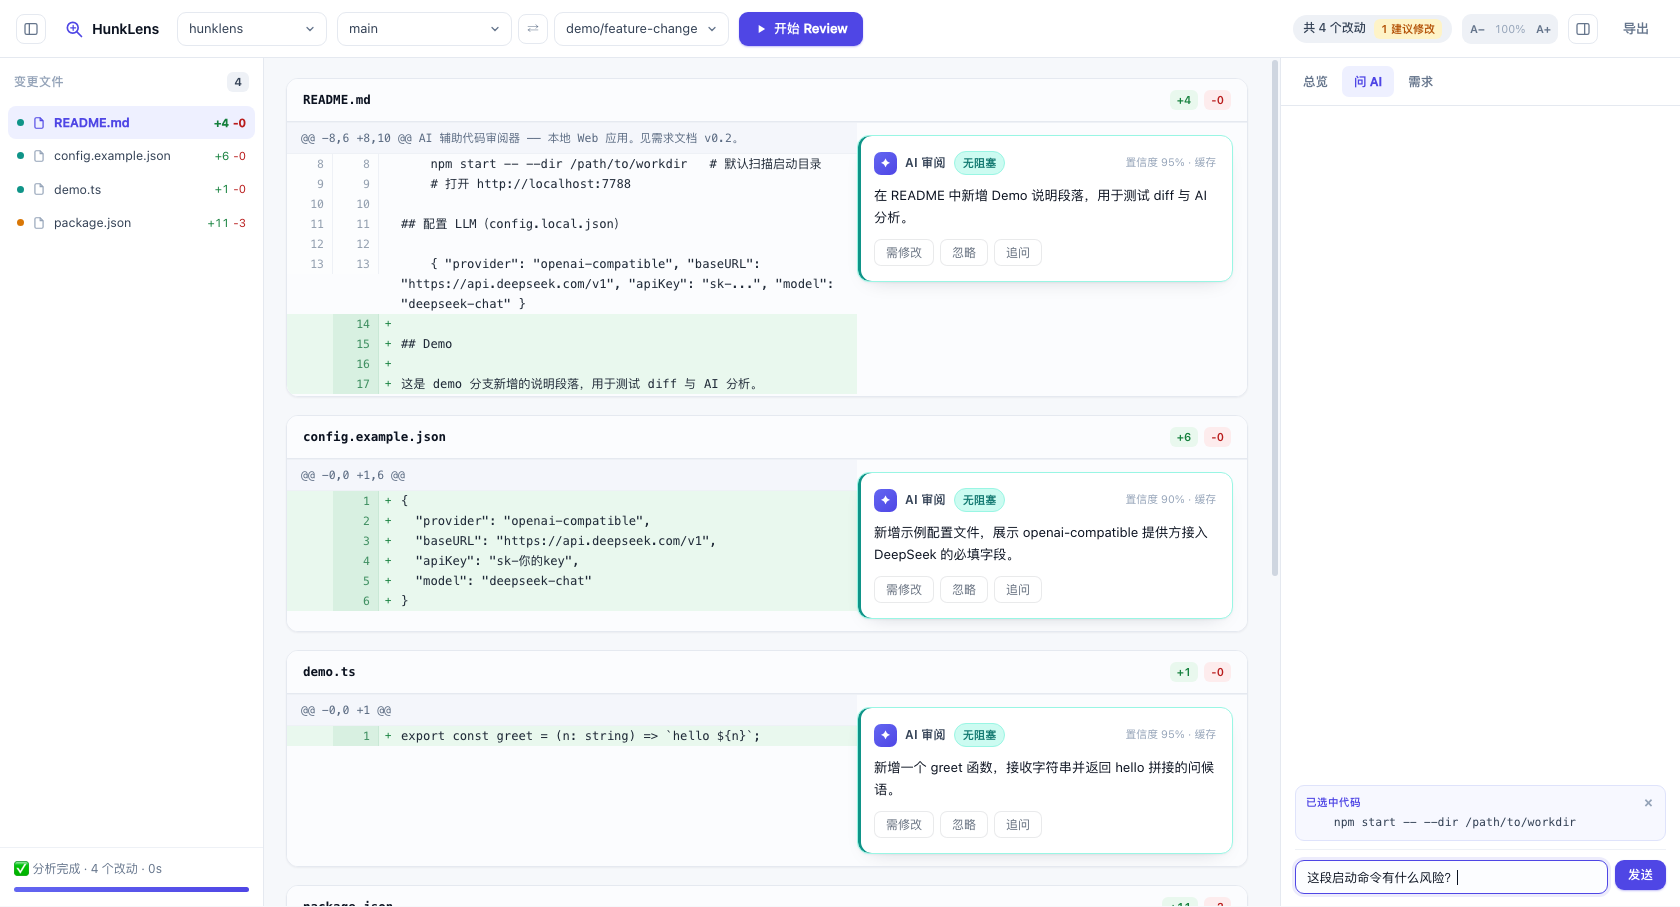
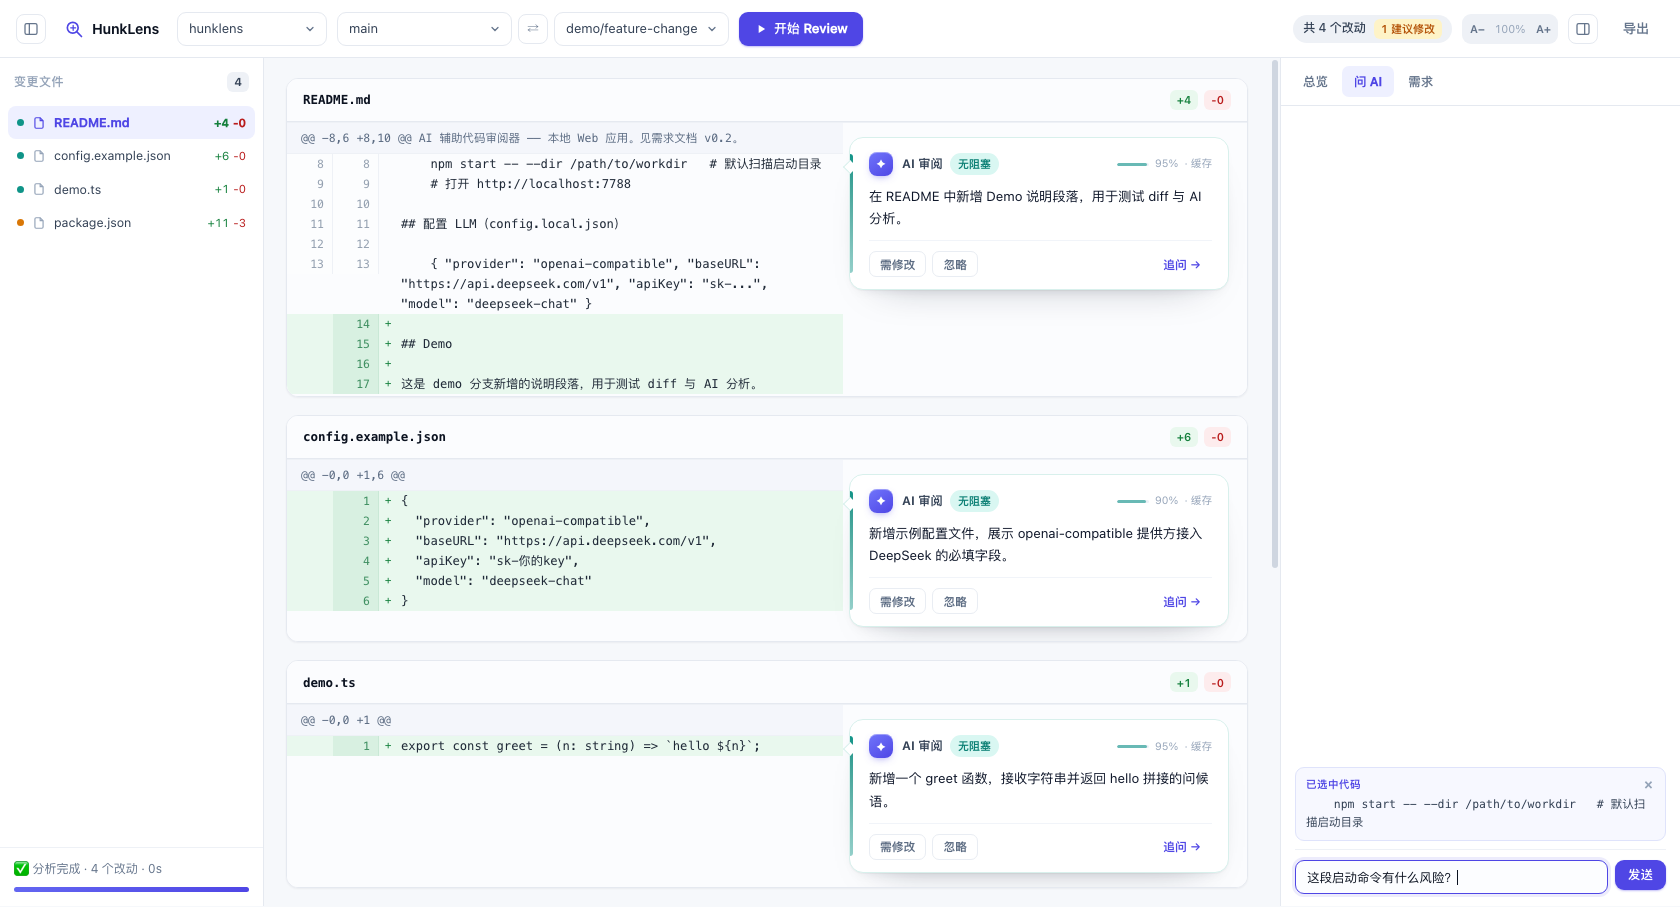
style: 重做 AI 分析卡片视觉（左侧色条 + 指向箭头 + 置信度条 + 骨架屏）

diff --git a/public/style.css b/public/style.css
@@ -158,41 +158,71 @@ body.hide-insp .diff-area{padding-right:26px}
 
 /* ---------- AI card ---------- */
 .hunk{background:#fbfcfe}
-.ai-card{width:calc(376px + (var(--fs) - 1) * 120px);flex:none;margin:12px 14px 12px 0;padding:15px 16px;
-  font-size:calc(13.2px * var(--fs));line-height:1.62;align-self:flex-start;
-  border-radius:12px;background:#fff;border:1px solid var(--line);box-shadow:0 1px 2px rgba(15,23,42,.04),0 10px 24px -16px rgba(15,23,42,.3)}
-.ai-card.sev-blocker{background:#fff;border-color:#fecaca;box-shadow:inset 3px 0 0 var(--blocker),0 1px 2px rgba(15,23,42,.04),0 8px 20px -14px rgba(15,23,42,.28)}
-.ai-card.sev-warning{background:#fff;border-color:#fde68a;box-shadow:inset 3px 0 0 var(--warn),0 1px 2px rgba(15,23,42,.04),0 8px 20px -14px rgba(15,23,42,.28)}
-.ai-card.sev-info{background:#fff;border-color:#99f6e4;box-shadow:inset 3px 0 0 var(--info),0 1px 2px rgba(15,23,42,.04),0 8px 20px -14px rgba(15,23,42,.28)}
-.ai-card.is-pending{background:#fff;border-color:var(--line);box-shadow:inset 3px 0 0 #dbe1ea;color:var(--muted)}
-.ai-head{display:flex;align-items:center;gap:8px;margin-bottom:10px}
-.ai-avatar{width:23px;height:23px;border-radius:7px;display:grid;place-items:center;flex:none;
-  background:linear-gradient(140deg,#6366f1,#4f46e5);color:#fff;font-size:12px}
-.ai-name{font-size:calc(12px * var(--fs));font-weight:650;letter-spacing:.02em;color:var(--ink-2)}
-.pill{font-size:calc(11.2px * var(--fs));font-weight:650;padding:2px 8px;border-radius:999px;border:1px solid transparent}
-.pill.blocker{background:#fee2e2;color:var(--blocker);border-color:#fecaca}
-.pill.warning{background:#fef3c7;color:#b45309;border-color:#fde68a}
-.pill.info{background:#ccfbf1;color:#0f766e;border-color:#99f6e4}
-.ai-meta{margin-left:auto;font-size:calc(10.8px * var(--fs));color:var(--faint);font-variant-numeric:tabular-nums}
-.ai-intent{margin:0 0 10px;color:var(--ink);line-height:1.66}
-.ai-issues{list-style:none;margin:0 0 10px;padding:0;display:flex;flex-direction:column;gap:6px}
-.ai-issues li{position:relative;padding-left:17px;color:#7f1d1d;line-height:1.62}
-.ai-issues li::before{content:"";position:absolute;left:5px;top:9px;width:5px;height:5px;border-radius:50%;background:currentColor;opacity:.55}
-.ai-card.sev-warning .ai-issues li{color:#78350f}
-.ai-card.sev-info .ai-issues li{color:#115e59}
-.ai-suggest{border-radius:9px;padding:10px 12px;background:rgba(255,255,255,.75);border:1px solid rgba(15,23,42,.06);
-  color:var(--ink-2);line-height:1.64;margin-bottom:10px}
-.ai-suggest::before{content:"建议";display:block;font-size:10.5px;font-weight:700;letter-spacing:.08em;color:var(--muted);margin-bottom:4px}
-.ai-actions{display:flex;gap:6px;opacity:.75;transition:opacity .15s}
-.ai-card:hover .ai-actions{opacity:1}
-.mini-btn{height:27px;padding:0 11px;border-radius:7px;border:1px solid rgba(15,23,42,.12);background:rgba(255,255,255,.8);
-  font-size:calc(12px * var(--fs));cursor:pointer;color:var(--ink-2)}
-.mini-btn:hover{border-color:var(--accent);color:var(--accent);background:#fff}
-.mini-btn.is-on{background:var(--accent);border-color:var(--accent);color:#fff}
-.skel{height:62px;border-radius:8px;background:linear-gradient(90deg,#eef2f7 25%,#f7f9fc 37%,#eef2f7 63%);
-  background-size:400% 100%;animation:shimmer 1.3s ease infinite;margin-bottom:8px}
+.ai-card{--sev:var(--info);--sev-soft:rgba(15,148,136,.07);--sev-line:#eef1f6;
+  position:relative;flex:none;align-self:flex-start;width:calc(380px + (var(--fs) - 1) * 120px);
+  margin:14px 18px 14px 6px;padding:14px 16px 12px 19px;
+  border-radius:14px;background:#fff;border:1px solid var(--sev-line);
+  box-shadow:0 1px 1px rgba(15,23,42,.03),0 6px 16px -12px rgba(15,23,42,.22),0 20px 44px -32px rgba(15,23,42,.4);
+  font-size:calc(13.2px * var(--fs));line-height:1.62;
+  transition:transform .16s ease,box-shadow .16s ease,border-color .16s ease}
+/* 左侧色条：只染一半高度，克制且有引导感 */
+.ai-card::before{content:"";position:absolute;left:0;top:16px;bottom:16px;width:3px;border-radius:0 3px 3px 0;
+  background:linear-gradient(180deg,var(--sev),color-mix(in srgb,var(--sev) 45%,#fff))}
+/* 指向代码的小箭头 */
+.ai-card::after{content:"";position:absolute;left:-5.5px;top:24px;width:9px;height:9px;background:#fff;
+  transform:rotate(45deg);border-left:1px solid var(--sev-line);border-bottom:1px solid var(--sev-line)}
+.ai-card:hover{transform:translateY(-1px);border-color:var(--sev);
+  box-shadow:0 2px 3px rgba(15,23,42,.04),0 10px 22px -14px rgba(15,23,42,.26),0 26px 50px -34px rgba(15,23,42,.42)}
+.ai-card.sev-blocker{--sev:var(--blocker);--sev-soft:rgba(220,38,38,.06);--sev-line:#f8dcdc}
+.ai-card.sev-warning{--sev:var(--warn);--sev-soft:rgba(217,119,6,.075);--sev-line:#f6e7c8}
+.ai-card.sev-info{--sev:var(--info);--sev-soft:rgba(15,148,136,.06);--sev-line:#d8f0ec}
+.ai-card.is-pending{--sev:#cbd5e1;--sev-soft:#f8fafc;--sev-line:#eef1f6;color:var(--muted)}
+.ai-card.is-pending::before{background:linear-gradient(180deg,#dbe3ee,#f1f5f9)}
+.ai-card.is-pending::after{display:none}
+
+.ai-head{display:flex;align-items:center;gap:9px;margin-bottom:9px}
+.ai-avatar{width:24px;height:24px;border-radius:8px;display:grid;place-items:center;flex:none;
+  background:linear-gradient(145deg,#7075fb,#4f46e5);color:#fff;font-size:12px;
+  box-shadow:0 3px 8px -4px rgba(79,70,229,.7),inset 0 1px 0 rgba(255,255,255,.35)}
+.ai-card.is-pending .ai-avatar{background:linear-gradient(145deg,#dbe3ee,#a8b4c5);box-shadow:none}
+.ai-title{display:flex;align-items:center;gap:7px;min-width:0}
+.ai-name{font-size:calc(12.2px * var(--fs));font-weight:680;letter-spacing:.01em;color:#334155}
+.pill{font-size:calc(11px * var(--fs));font-weight:650;padding:2px 8px;border-radius:999px;border:none;letter-spacing:.01em}
+.pill.blocker{background:#fee2e2;color:#b91c1c}
+.pill.warning{background:#fef0cf;color:#a45b0a}
+.pill.info{background:#d9f7f2;color:#0b7f74}
+.pill.pending{background:#f1f5f9;color:#7c8ba0}
+.ai-meta{margin-left:auto;display:flex;align-items:center;gap:6px;flex:none;
+  font-size:calc(10.6px * var(--fs));color:#94a3b8;font-variant-numeric:tabular-nums}
+.conf-bar{width:32px;height:3px;border-radius:99px;background:#edf1f7;overflow:hidden}
+.conf-bar i{display:block;height:100%;border-radius:99px;background:var(--sev);opacity:.6}
+
+.ai-intent{margin:0 0 11px;color:#0f172a;line-height:1.68;letter-spacing:-.001em}
+.ai-issues{list-style:none;margin:0 0 11px;padding:0;display:flex;flex-direction:column;gap:7px}
+.ai-issues li{position:relative;padding-left:18px;color:#3f4a5a;line-height:1.62}
+.ai-issues li::before{content:"";position:absolute;left:3px;top:.6em;width:6px;height:6px;border-radius:1.5px;
+  background:var(--sev);opacity:.5;transform:rotate(45deg)}
+
+.ai-suggest{position:relative;margin:0 0 11px;padding:9px 11px;border-radius:10px;
+  background:var(--sev-soft);border:1px solid rgba(15,23,42,.045);color:#334155;line-height:1.64}
+.sug-label{display:inline-flex;align-items:center;height:17px;padding:0 6px;margin-right:6px;border-radius:5px;
+  background:#fff;color:var(--sev);font-size:10px;font-weight:750;letter-spacing:.05em;vertical-align:1.5px;
+  box-shadow:0 1px 2px rgba(15,23,42,.08)}
+
+.ai-actions{display:flex;align-items:center;gap:6px;padding-top:10px;border-top:1px solid #f1f4f9}
+.mini-btn{height:26px;padding:0 10px;border-radius:7px;border:1px solid #e9edf3;background:#fff;
+  font-size:calc(11.8px * var(--fs));font-weight:550;cursor:pointer;color:#5b6b82;
+  transition:border-color .14s ease,color .14s ease,background .14s ease,box-shadow .14s ease}
+.mini-btn:hover{border-color:#c7cbf5;color:var(--accent);background:#f8f9ff}
+.mini-btn.is-on{background:var(--accent-soft);border-color:#c7cbf5;color:#4338ca;box-shadow:inset 0 0 0 1px rgba(79,70,229,.18)}
+.ai-card.sev-blocker .mini-btn[data-act="fix"].is-on{background:#fee2e2;border-color:#fecaca;color:#b91c1c;box-shadow:none}
+.mini-btn.ask{margin-left:auto;border-color:transparent;background:transparent;color:var(--accent);font-weight:600}
+.mini-btn.ask:hover{background:var(--accent-soft);border-color:transparent}
+
+.skel{height:9px;border-radius:6px;background:linear-gradient(90deg,#eef2f7 25%,#f8fafc 37%,#eef2f7 63%);
+  background-size:400% 100%;animation:shimmer 1.4s ease infinite;margin-top:7px}
 @keyframes shimmer{0%{background-position:100% 0}100%{background-position:0 0}}
-.pending-note{display:flex;align-items:center;gap:6px;font-size:11.5px;color:var(--muted)}
+.pending-note{display:flex;align-items:center;gap:7px;font-size:calc(11.8px * var(--fs));color:#7f8da3}
 .pulse{width:6px;height:6px;border-radius:50%;background:var(--accent);animation:pulse 1.1s ease-in-out infinite}
 @keyframes pulse{0%,100%{opacity:.25;transform:scale(.85)}50%{opacity:1;transform:scale(1.1)}}
 
@@ -232,7 +262,7 @@ body.hide-insp .diff-area{padding-right:26px}
 .chat-input input:focus{outline:none;border-color:var(--accent);box-shadow:0 0 0 3px rgba(79,70,229,.1)}
 
 @media (max-width:1500px){:root{--rail-w:236px;--insp-w:356px}
-  .ai-card{width:auto;min-width:300px}}
+  .ai-card{width:calc(340px + (var(--fs) - 1) * 100px)}}
 @media (max-width:1180px){
   .shell{grid-template-columns:minmax(0,1fr)}
   .rail,.inspector{display:none}

diff --git a/public/app.js b/public/app.js
@@ -411,8 +411,12 @@ function renderFile(f, parsed) {
       html += "<div class=\"hunk\"><div class=\"code\">"
         + "<div class=\"hunk-head\"><span>" + esc(h.header) + "</span></div>" + rows + "</div>"
         + "<div class=\"ai-card is-pending\" data-slot=\"" + esc(f.file) + ":" + idx + "\">"
-        + "<div class=\"pending-note\"><span class=\"pulse\"></span>AI 正在阅读这段改动…</div>"
-        + "<div class=\"skel\" style=\"margin-top:10px;height:38px\"></div></div></div>";
+        + "<div class=\"ai-head\"><span class=\"ai-avatar\">✦</span>"
+        + "<span class=\"ai-title\"><span class=\"ai-name\">AI 审阅</span><span class=\"pill pending\">阅读中</span></span></div>"
+        + "<div class=\"pending-note\"><span class=\"pulse\"></span>正在读这段改动…</div>"
+        + "<div class=\"skel\" style=\"width:94%\"></div>"
+        + "<div class=\"skel\" style=\"width:78%\"></div>"
+        + "<div class=\"skel\" style=\"width:58%\"></div></div></div>";
       slots[f.file + ":" + idx] = idx;
       idx++;
     });
@@ -478,23 +482,27 @@ function cardHTML(a, key, file, hunkIndex, cached) {
   var sev = SEV[a.severity] || SEV.info;
   var marked = (state.review.hunks || {})[key];
   var issues = (a.issues || []).filter(function (x) { return x && x.desc; });
+  var conf = a.confidence ? Math.round(a.confidence * 100) : 0;
   var html = "<div class=\"ai-card sev-" + sev.cls + "\" data-key=\"" + esc(key) + "\">"
     + "<div class=\"ai-head\">"
-    + "<span class=\"ai-avatar\">✦</span><span class=\"ai-name\">AI 审阅</span>"
-    + "<span class=\"pill " + sev.cls + "\">" + sev.pill + "</span>"
-    + "<span class=\"ai-meta\">" + (a.confidence ? "置信度 " + Math.round(a.confidence * 100) + "%" : "") + (cached ? " · 缓存" : "") + "</span>"
-    + "</div>";
+    + "<span class=\"ai-avatar\">✦</span>"
+    + "<span class=\"ai-title\"><span class=\"ai-name\">AI 审阅</span>"
+    + "<span class=\"pill " + sev.cls + "\">" + sev.pill + "</span></span>"
+    + "<span class=\"ai-meta\">"
+    + (conf ? "<span class=\"conf-bar\"><i style=\"width:" + Math.max(10, Math.min(100, conf)) + "%\"></i></span><span>" + conf + "%</span>" : "")
+    + (cached ? "<span>· 缓存</span>" : "")
+    + "</span></div>";
   if (a.intent) html += "<p class=\"ai-intent\">" + esc(a.intent) + "</p>";
   if (issues.length) {
     html += "<ul class=\"ai-issues\">";
     issues.forEach(function (it) { html += "<li>" + esc(it.desc) + "</li>"; });
     html += "</ul>";
   }
-  if (a.suggestion && a.suggestion !== "-") html += "<div class=\"ai-suggest\">" + esc(a.suggestion) + "</div>";
+  if (a.suggestion && a.suggestion !== "-") html += "<div class=\"ai-suggest\"><span class=\"sug-label\">建议</span>" + esc(a.suggestion) + "</div>";
   html += "<div class=\"ai-actions\">"
     + "<button class=\"mini-btn" + (marked === "需修改" ? " is-on" : "") + "\" data-act=\"fix\" data-key=\"" + esc(key) + "\">需修改</button>"
     + "<button class=\"mini-btn" + (marked === "忽略" ? " is-on" : "") + "\" data-act=\"ignore\" data-key=\"" + esc(key) + "\">忽略</button>"
-    + "<button class=\"mini-btn\" data-act=\"ask\" data-file=\"" + esc(file) + "\" data-idx=\"" + hunkIndex + "\">追问</button>"
+    + "<button class=\"mini-btn ask\" data-act=\"ask\" data-file=\"" + esc(file) + "\" data-idx=\"" + hunkIndex + "\">追问 →</button>"
     + "</div></div>";
   return html;
 }
